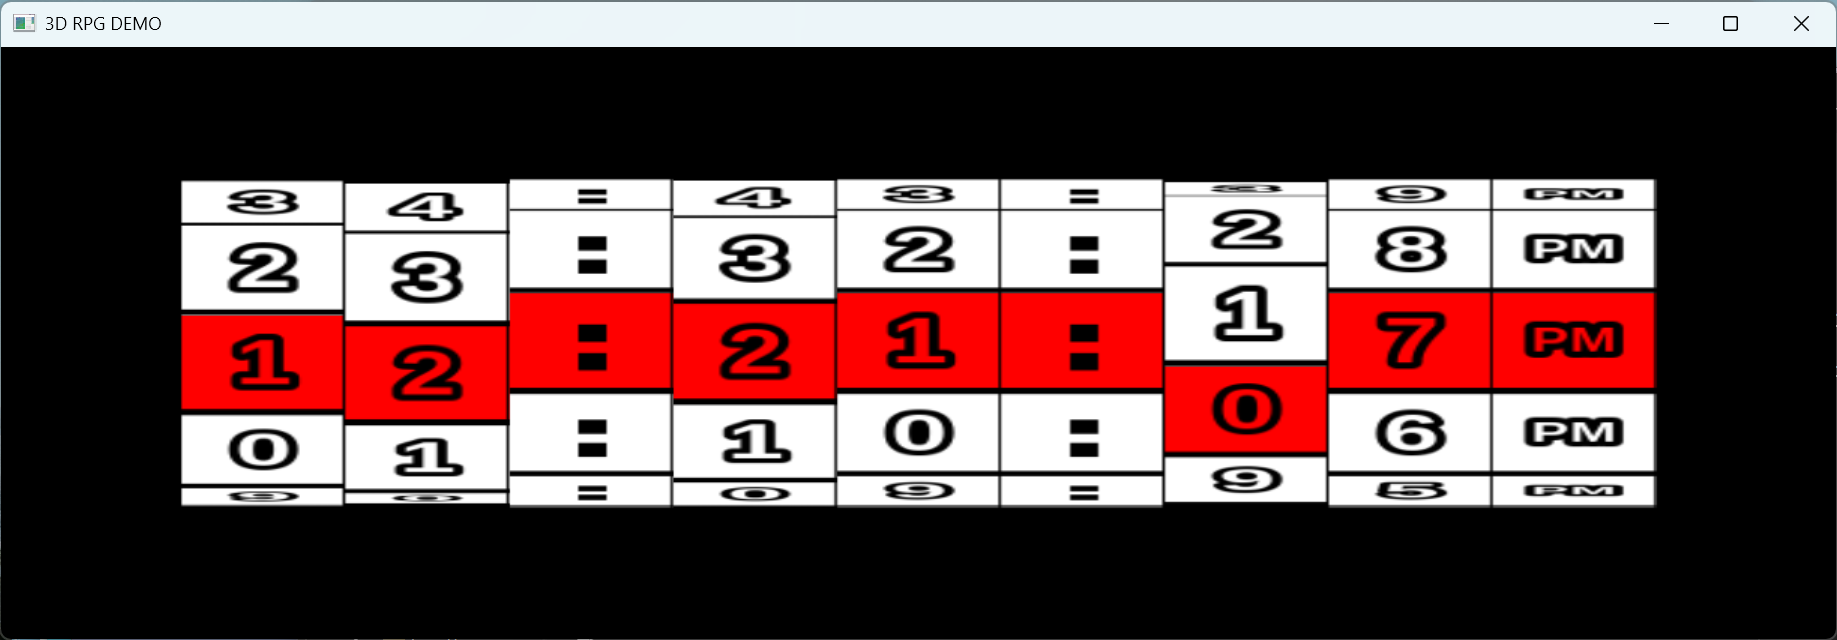
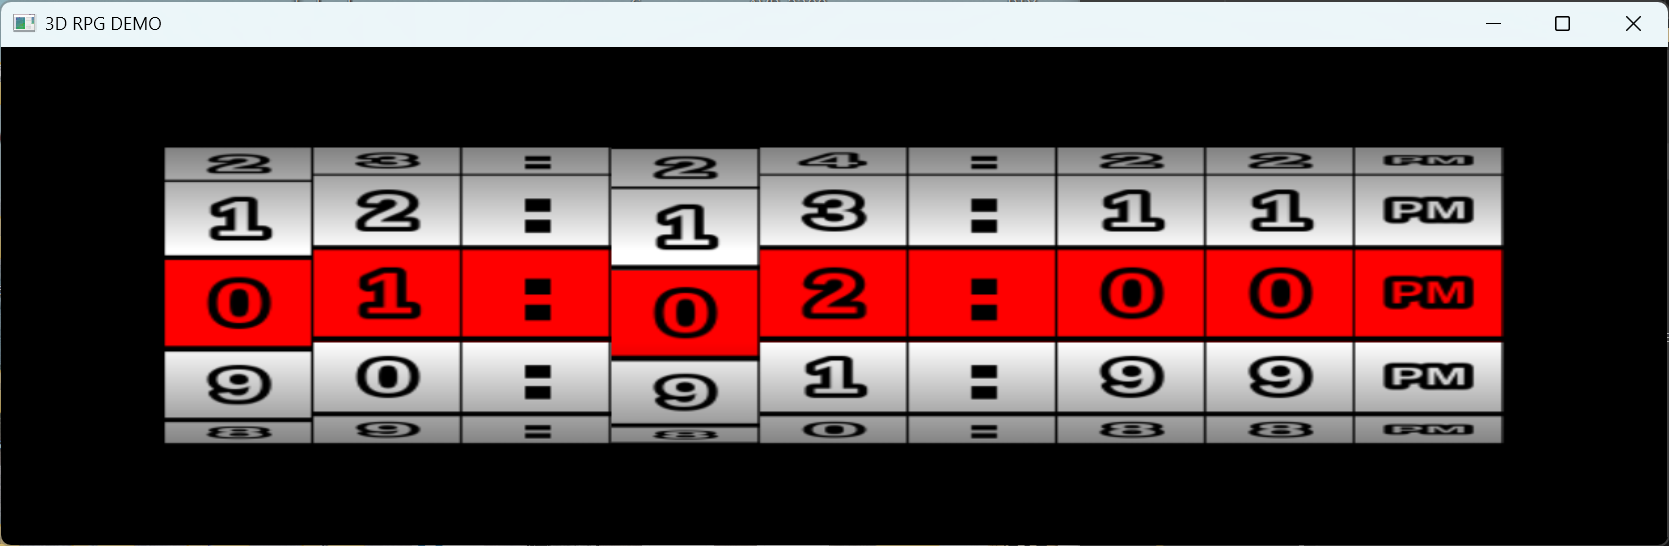
Add files via upload

diff --git a/Source/main.cpp b/Source/main.cpp
@@ -48,6 +48,14 @@ int windowWidth=1000;
 int windowHeight=140;
 const int CLOCK_BORDER_PX = 24;
 
+// Current orthographic projection half-extents (world units), recomputed by
+// ReSizeGLScene() on every resize. DrawEdgeShading() reads orthoHalfHeight
+// to find exactly where the top/bottom of the current viewport sits, so its
+// shading tracks the real margin between the digit faces and the viewport
+// edge instead of a size baked in for one particular window shape.
+float orthoHalfWidth = 5.6f;
+float orthoHalfHeight = 0.515f;
+
 DWORD ticks=0;
 long int frames=0;
 int fps=0;
@@ -164,7 +172,66 @@ void drawpmam(bool pm)
 	glEnd();
 }
 
-int DrawGLScene(void)									
+// Darkens the margin area above and below the digit faces -- between the
+// numbers themselves and the top/bottom of the visible clock band -- with a
+// soft gradient, fading to fully transparent right at the digits. Purely a
+// flat, textureless strip otherwise reads as flat -- this gives the band a
+// subtle rounded/embossed look without ever touching the digits' own
+// texturing.
+//
+// Drawn directly in the clock's own world-space coordinates -- the same
+// modelview/projection the wheels themselves use -- rather than swapping
+// in a temporary screen-space orthographic overlay. Each wheel's readable
+// front facet spans a fixed Y range of +/-sin(18 deg) regardless of window
+// size (see drawwheel()/drawcolon()/drawpmam()), so the inner edge of the
+// gradient is anchored to that constant. The outer edge is anchored to
+// orthoHalfHeight, which ReSizeGLScene() keeps in sync with wherever the
+// current viewport's top/bottom edge actually sits -- so the shaded margin
+// always exactly fills the gap between the numbers and the edge of the
+// clock band no matter the window's size or aspect ratio, and never
+// overlaps the digits. Must be called with the same modelview transform
+// active as when the wheels were drawn (i.e. right after gluLookAt(), with
+// no leftover translation/rotation from the wheel-drawing loop -- see the
+// glPushMatrix/glPopMatrix wrapped around that loop in DrawGLScene()).
+void DrawEdgeShading(void)
+{
+	glDisable(GL_DEPTH_TEST);
+	glDisable(GL_TEXTURE_2D);
+	glEnable(GL_BLEND);
+	glBlendFunc(GL_SRC_ALPHA, GL_ONE_MINUS_SRC_ALPHA);
+
+	const float faceEdgeY  = 0.309f;		// sin(18 Degrees) -- The Wheel Faces' Fixed Y Extent
+	const float shadeAlpha = 0.8f;			// Darkest Point's Opacity, Right At The Viewport Edge
+	const float x          = 1.0f;			// Same Depth As The Wheels' Front-Facing Surface
+	const float zNear      = -2.0f;		// Comfortably Past The First Wheel
+	const float zFar       = 12.0f;		// Comfortably Past The Last Wheel
+
+	const float outerY = orthoHalfHeight;	// Wherever The Current Viewport's Top/Bottom Edge Sits
+
+	glBegin(GL_QUADS);
+		// Top Margin -- Dark At The Viewport Edge, Fading To Nothing Right At The Digit Face
+		glColor4f(0,0,0,shadeAlpha);
+		glVertex3f(x, outerY, zNear);
+		glVertex3f(x, outerY, zFar);
+		glColor4f(0,0,0,0);
+		glVertex3f(x, faceEdgeY, zFar);
+		glVertex3f(x, faceEdgeY, zNear);
+
+		// Bottom Margin -- Mirror Image Of The Above
+		glColor4f(0,0,0,0);
+		glVertex3f(x, -faceEdgeY, zNear);
+		glVertex3f(x, -faceEdgeY, zFar);
+		glColor4f(0,0,0,shadeAlpha);
+		glVertex3f(x, -outerY, zFar);
+		glVertex3f(x, -outerY, zNear);
+	glEnd();
+
+	glDisable(GL_BLEND);
+	glEnable(GL_TEXTURE_2D);
+	glEnable(GL_DEPTH_TEST);
+}
+
+int DrawGLScene(void)
 {
 	// int hour10=0,hour1=0,min10=0,min1=0,sec10=0,sec1=0;
 	int hours=0, minutes=0, seconds=0;
@@ -218,15 +285,16 @@ int DrawGLScene(void)
 		gluLookAt(10,0,5,
 				  0,0,5,
 				  0,1,0);
+		glPushMatrix();
 		for (int x=0;x<9;x++)
 		{
 			glTranslatef(0,0,1);
 			glRotatef(rot[x],0,0,1);
 			if ((x!=3)&(x!=6)&&(x!=0))
-			{	
+			{
 				drawwheel(dat[x]);
 			}
-			else 
+			else
 			{
 				if (x!=0)
 					drawcolon();
@@ -235,8 +303,11 @@ int DrawGLScene(void)
 			}
 			glRotatef(rot[x],0,0,-1);
 		}
-	}						
-	return true;									
+		glPopMatrix();		// Undo The Loop's Cumulative Z-Translation Before Drawing The Shading Below
+
+		DrawEdgeShading();
+	}
+	return true;
 }
 
 void ReSizeGLScene(GLsizei width, GLsizei height)
@@ -278,6 +349,9 @@ void ReSizeGLScene(GLsizei width, GLsizei height)
 		halfHeight = contentHalfWidth/aspect;
 	halfHeight *= margin;
 	float halfWidth = halfHeight*aspect;
+
+	orthoHalfWidth = halfWidth;
+	orthoHalfHeight = halfHeight;
 
 	glOrtho(-halfWidth, halfWidth, -halfHeight, halfHeight, 0.1, 100.0);
 
